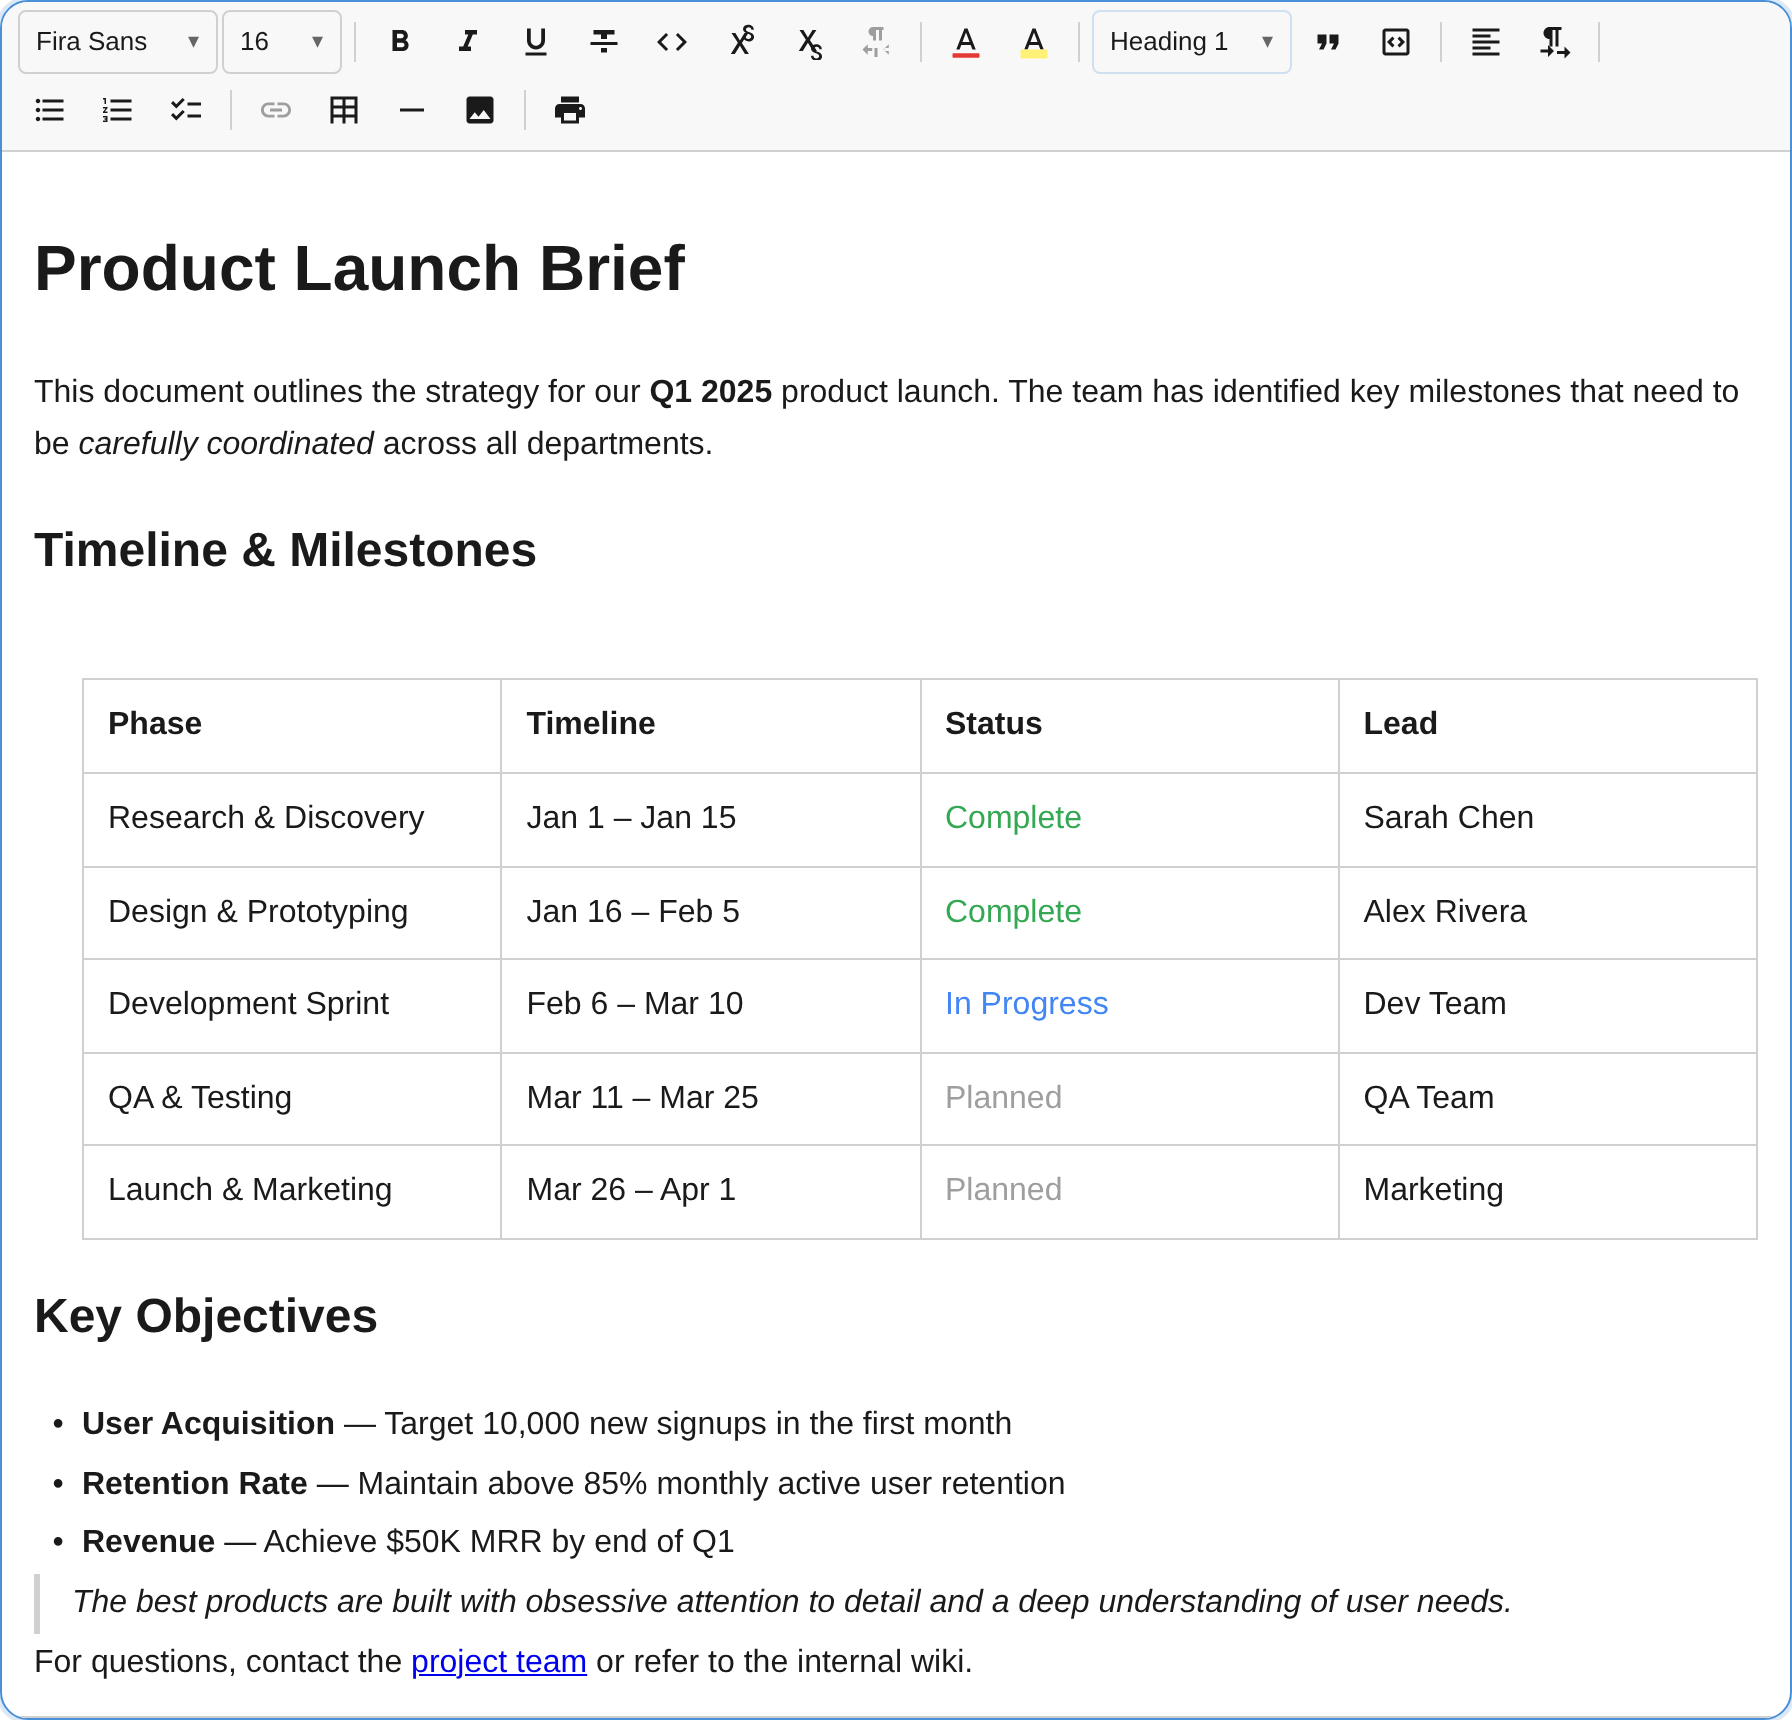
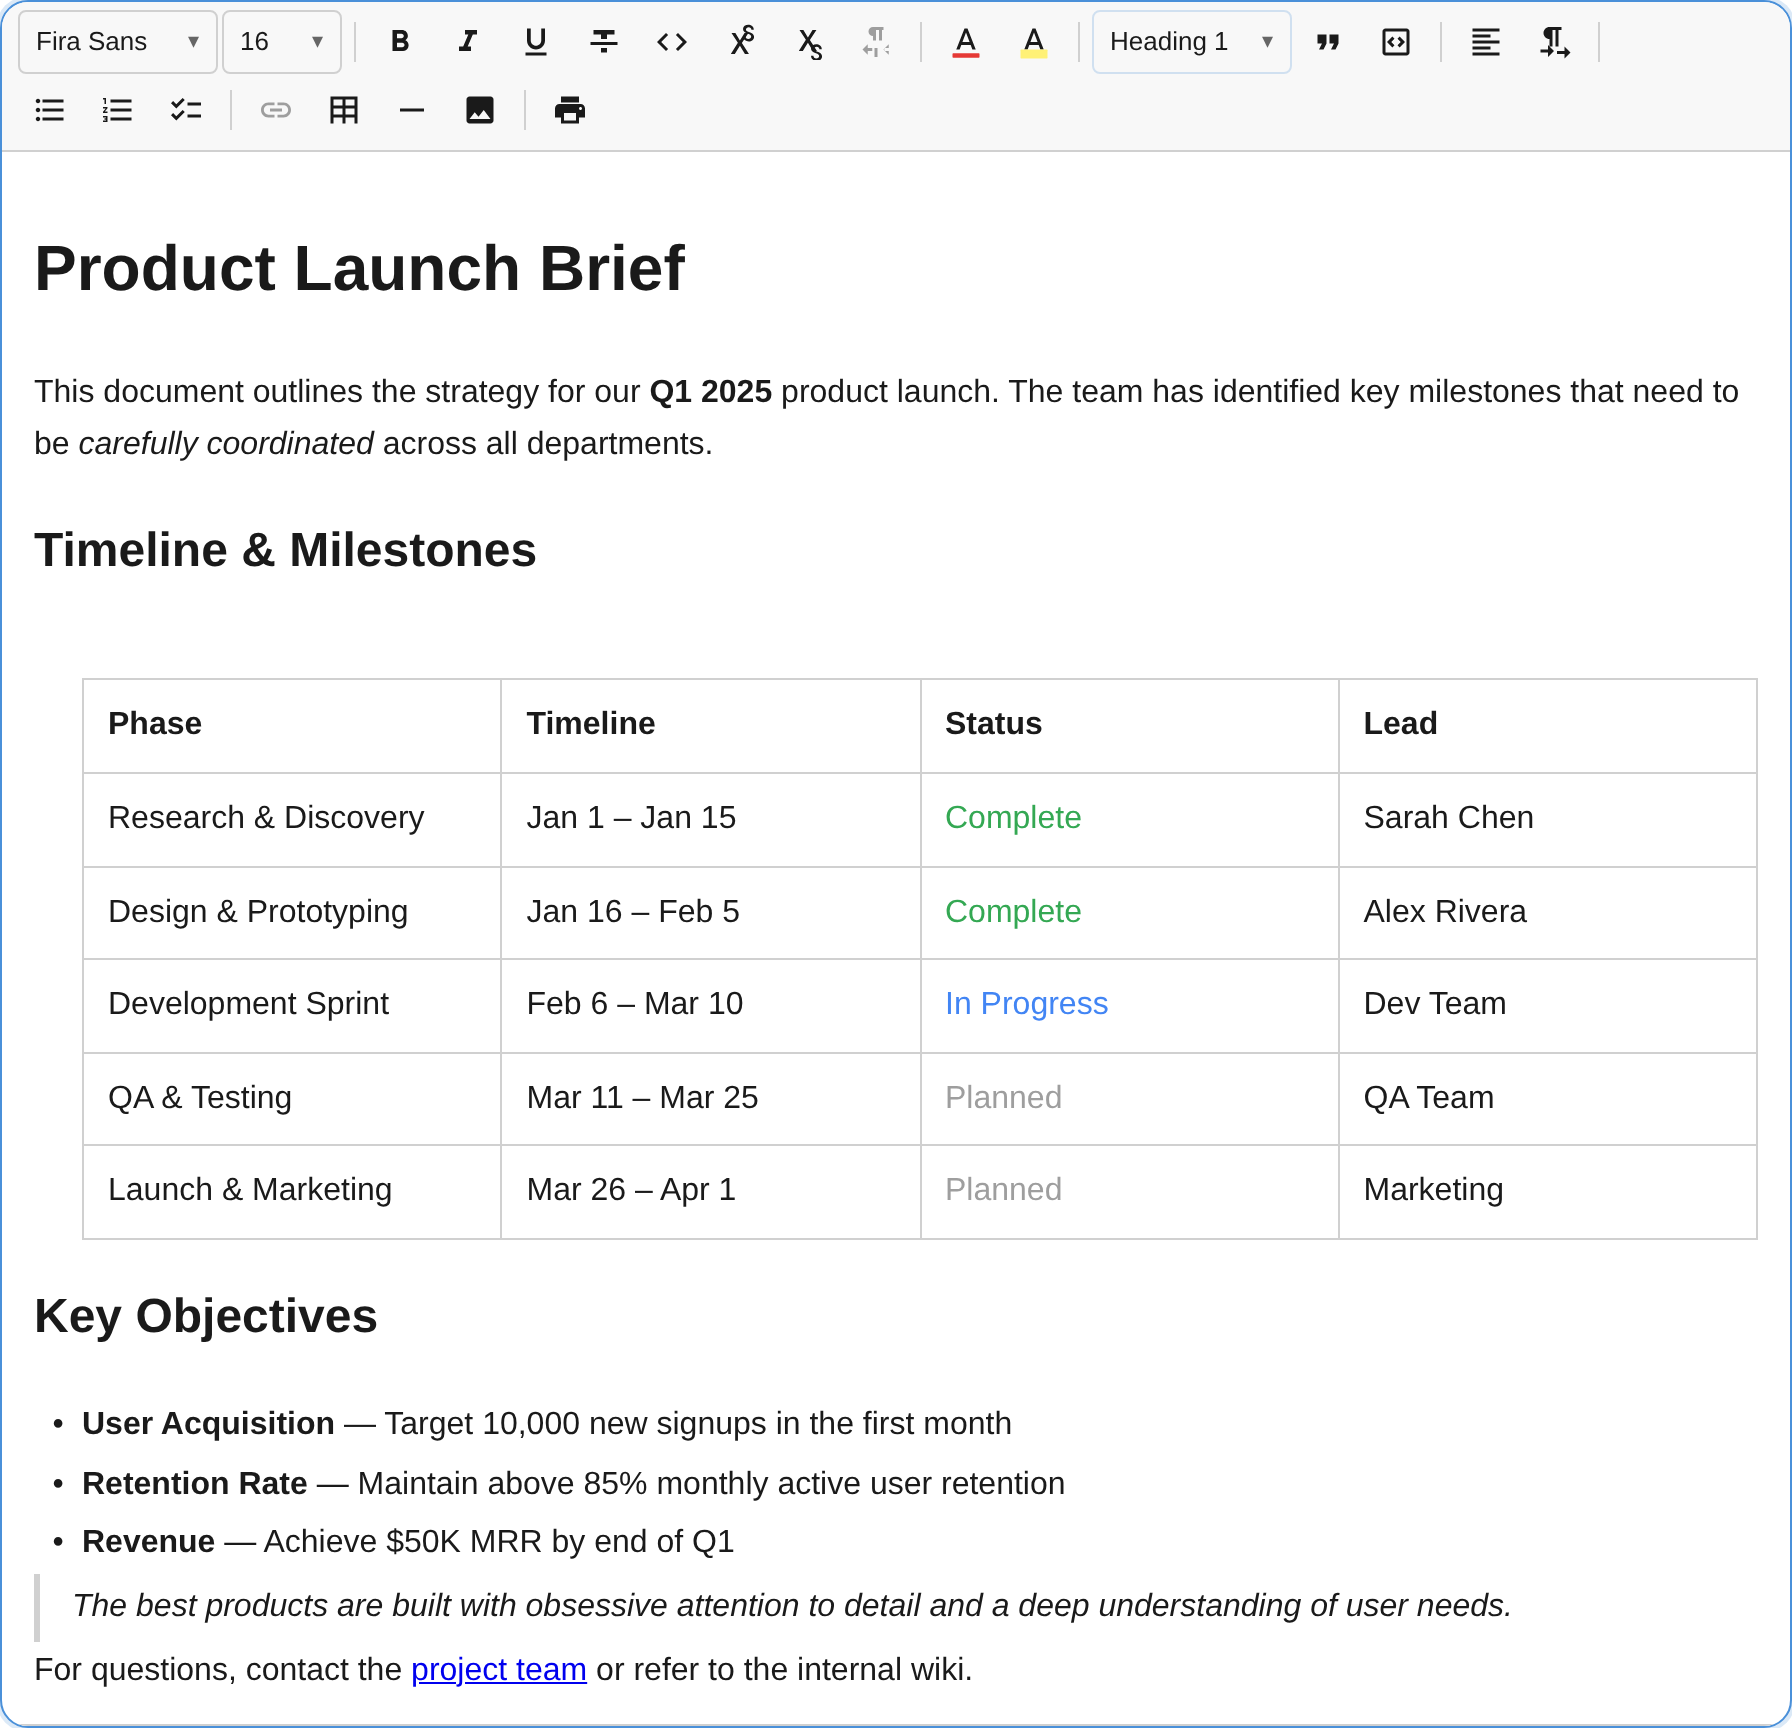
Update Docs

diff --git a/CHANGELOG.md b/CHANGELOG.md
@@ -7,6 +7,20 @@ and this project adheres to [Semantic Versioning](https://semver.org/spec/v2.0.0
 
 ## [Unreleased]
 
+## [2.1.4] - 2026-05-30
+
+### Added
+
+- **Blockquote is now a container block (#136)** — Blockquote becomes a B2 container that wraps other blocks instead of being a flat text block, fixing two related bugs: a multi-block selection now wraps every selected block into a single quote, and quoting a list keeps the list structure intact. The `NodeSpec` content allows block children (`paragraph`, `heading`, `list_item`, `blockquote`, `horizontal_rule`, `code_block`) and is non-isolating, so the caret flows across the container edges natively. New `commands/ContainerCommands.ts` wraps or lifts the selected top-level block range while preserving block identity: `toggleBlockquote` wraps, or lifts when already quoted; `setBlockquote` wraps. `isActive` is ancestor-based via the new `hasAncestorOfType` / `findAncestorOfType` helpers in `NodeResolver`. The `"> "` input rule wraps the current paragraph into a quote. Container keyboard navigation: `Enter` exits an empty last child, `Backspace` lifts the first child, both dissolving an emptied quote; arrow crossing is native. `DocumentParser` parses `<blockquote>` recursively and preserves `dir` / `align`, and paste routes `<blockquote>` through the container-aware parser so nested content no longer flattens. Undo relies on step composition (no dedicated `WrapStep` needed), verified by linear and intervening-rebase stress tests. The blockquote plugin docs page was rewritten for the container model with a regenerated screenshot.
+
+### Changed
+
+### Fixed
+
+- **HTML whitespace normalization on import and paste (#137)** — Both HTML parsers previously took text-node content verbatim, treating insignificant HTML whitespace (newlines, tabs, indentation) as significant. Firefox hard-wraps clipboard `text/html` at roughly 72 columns, inserting newlines inside paragraph text that the paste parser then split into extra paragraphs; the same defect left stray newlines and indentation in list items and in `setContentHTML` content. A shared DOM pass (`serialization/HTMLWhitespace.ts`) now implements the CSS `white-space: normal` model: it collapses runs of ASCII whitespace to a single space across inline boundaries, trims at block edges, and exempts `pre` / `textarea` / `white-space: pre*` subtrees so code blocks keep their indentation. It mutates only `Text.data`, leaving marks, block ids, and attributes intact, and is wired into both `HTMLParser.parse()` (paste) and `parseHTMLToDocument()` (`setContentHTML`). Non-breaking spaces are preserved and `<br>` handling is intentionally unchanged.
+
+- **Blockquote wrapping respects `content.allow`** — `wrapSelectionInContainer` previously stuffed every block in the top-level range into the container, but `applyInsertNode` performs no schema validation, so a block not in the container's `content.allow` (for example a table inside a blockquote) was nested into a schema-invalid document on the canonical "select all then Blockquote" path. An optional `isAllowedChild` predicate now breaks the range into maximal runs of wrappable blocks, each wrapped in its own container (`wrapIn`-style), while disallowed blocks stay at the top level; the operation returns `null` when no block in the range is wrappable. `BlockquotePlugin` derives the predicate from the registered `NodeSpec` `content.allow` as a single source of truth, matching both concrete child types and group names.
+
 ## [2.1.3] - 2026-05-18
 
 ### Added
@@ -22,7 +36,7 @@ and this project adheres to [Semantic Versioning](https://semver.org/spec/v2.0.0
 - **TypeScript / TSX language support (#114)** — `CodeBlockPlugin` now ships with built-in TypeScript syntax highlighting and `SmartPastePlugin` with TypeScript content detection, alongside the existing Java / JSON / XML support. The new `TYPESCRIPT_LANGUAGE` definition covers modern TS — comments, escape-aware strings and template literals, decorators, the full keyword set incl. `satisfies` / `using` / `infer` / `keyof` / `asserts` / `out` / `override`, numeric literals with `_` separators and `BigInt` `n` suffix (hex/octal/binary/decimal/scientific), and modern operators (`=>`, `??`, `??=`, `?.`, `...`, `**=`, `>>>=`, `&&=`, `||=`). Word boundaries are enforced so identifiers like `interfaceName` are not mis-tokenized as keywords. The new `TypeScriptDetector` scores ES imports/exports, `type` / `interface` / `enum` / `namespace` / `declare`, `const` / `let` bindings, arrow functions, optional chaining, nullish coalescing, template literals, type annotations, `async`, decorators and generics; it carries explicit negative signals (`package …;`, `System.out.…`) to avoid misdetecting Java code, and is ReDoS-resistant (50 000-character adversarial inputs complete in < 100 ms). Aliases `ts` and `tsx` resolve to TypeScript in both the language registry and the tokenizer; JSX-specific tags are not parsed as separate token types in this iteration and fall back to standard TypeScript tokenization.
 
 ### Fixed
-
+z
 - **Inline-node decoration drift in `DecorationSet.map(tr)` (audit A2 / hotfix)** — Mapping decorations through `insertInlineNode` / `removeInlineNode` steps fell into the `default: return deco` arm of `mapInline` / `mapWidget`, so any plugin that cached a `DecorationSet` and incrementally remapped it (instead of rebuilding from `state`) would see decorations drift by one offset per inline-node insertion or deletion. The `hard_break` plugin already emits these steps in production via `Commands.ts`, making the bug reachable as soon as any consumer adopted the cached-set optimization. The two switches now handle inline-node steps with width-1 arithmetic mirroring `insertText` (`len = 1`) and `deleteText` (`from = step.offset, to = step.offset + 1`); regression tests cover both step types × {inline, widget, node} decoration shapes.
 - **Sibling-index shift now rebased across structural undo under `recordIntervening` (follow-up to #129)** — `insertNode` / `removeNode` previously kept their `index` field unchanged when an intervening transaction inserted or removed a sibling in the same parent, so undo of a structural edit could remove the wrong block or insert at the wrong slot. The fix introduces a sixth `StepMap` category, `ChildIndexShiftMap { parentPath, fromIndex, delta }`, produced by `getMapInsertNode`, and extends `BlockRemovalMap` with mandatory `parentPath` / `index` fields populated from the `removeNode` step itself. Two new helpers in `Mapping.ts` — `mapChildIndex` (existing-child semantics: `null` when an intervening removal eats the exact slot) and `mapInsertionIndex` (insertion-slot semantics: the slot survives a same-index removal because it names *where to insert*, not an existing block) — drive the rebase. `mapInsertNode` uses the latter; `mapRemoveNode` uses the former, alongside the existing block-still-distinct probe. The `parentPath` is never rebased through structural maps (block identity does not shift in child-slot space), so the existing `parentPathStillValid` check continues to govern ancestor migration. New public exports from `@notectl/core`: `ChildIndexShiftMap`, `mapChildIndex`, `mapInsertionIndex` — the same primitives a future collab / OT layer needs for rebasing structural operations against remote edits. Tests cover `mapChildIndex` and `mapInsertionIndex` matrices in `state/Mapping.test.ts`, per-step rebase under both `childIndexShift` and `blockRemoval` (insertion-slot and existing-child cases) in `state/StepMapping.test.ts`, and end-to-end `insertNode` / `removeNode` undo under intervening sibling edits in `state/History.test.ts`.
 - **Undo of `addMark` / `removeMark` over a partially-marked range no longer strips pre-existing marks (#128)** — `AddMarkStep` / `RemoveMarkStep` previously carried only `{ blockId, from, to, mark }` and the symmetric inverse covered the entire user-supplied range. When the action was applied to a range where some positions already carried the mark, the inverse stripped those pre-existing marks on undo (and the mirror case re-added marks to previously-unmarked sub-ranges through `removeMark` → undo), silently corrupting the document. The fix moves planning out of the steps and into the `TransactionBuilder`: `addMark` now walks the working document and emits one `AddMarkStep` per maximal sub-range that does not yet carry the mark type; `removeMark` emits one `RemoveMarkStep` per maximal sub-range that does carry the mark, with each step's `mark` field capturing the actual mark from the document (including attrs) so the inverse restores `link href`, `color` and other attributed marks faithfully. `StepApplication` and `StepInversion` are unchanged — the existing symmetric inverse is now exact because every emitted step accurately describes only the positions it modified. New helpers `findRangesMissingMark` / `findRangesWithMark` in `state/InlineContentOps.ts` are pure and coalesce across `InlineNode`s (which are inert: passed through, never break or start a range), and the builder falls back to a single full-range step when no working document is available (e.g. low-level tests). `AddMarkStep` / `RemoveMarkStep` now document the builder-enforced invariants explicitly. Acceptance criteria from the issue are covered by new tests in `state/MarkUndo.test.ts` (both add and remove polarity, attribute preservation through undo, redo correctness, no-op transactions when the mark already covers / is absent across the entire range, `InlineNode` coalescing, mixed mark types).
